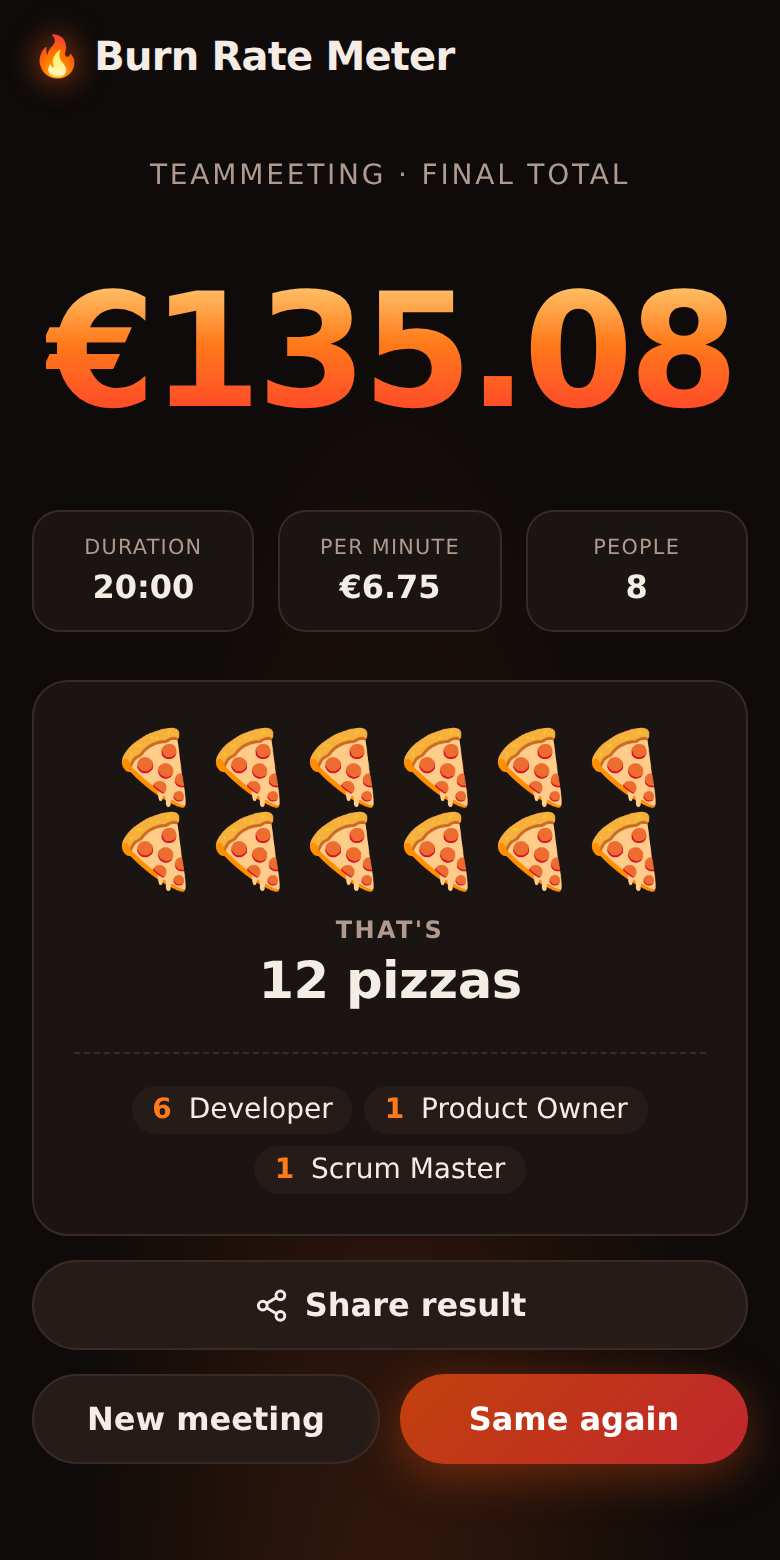
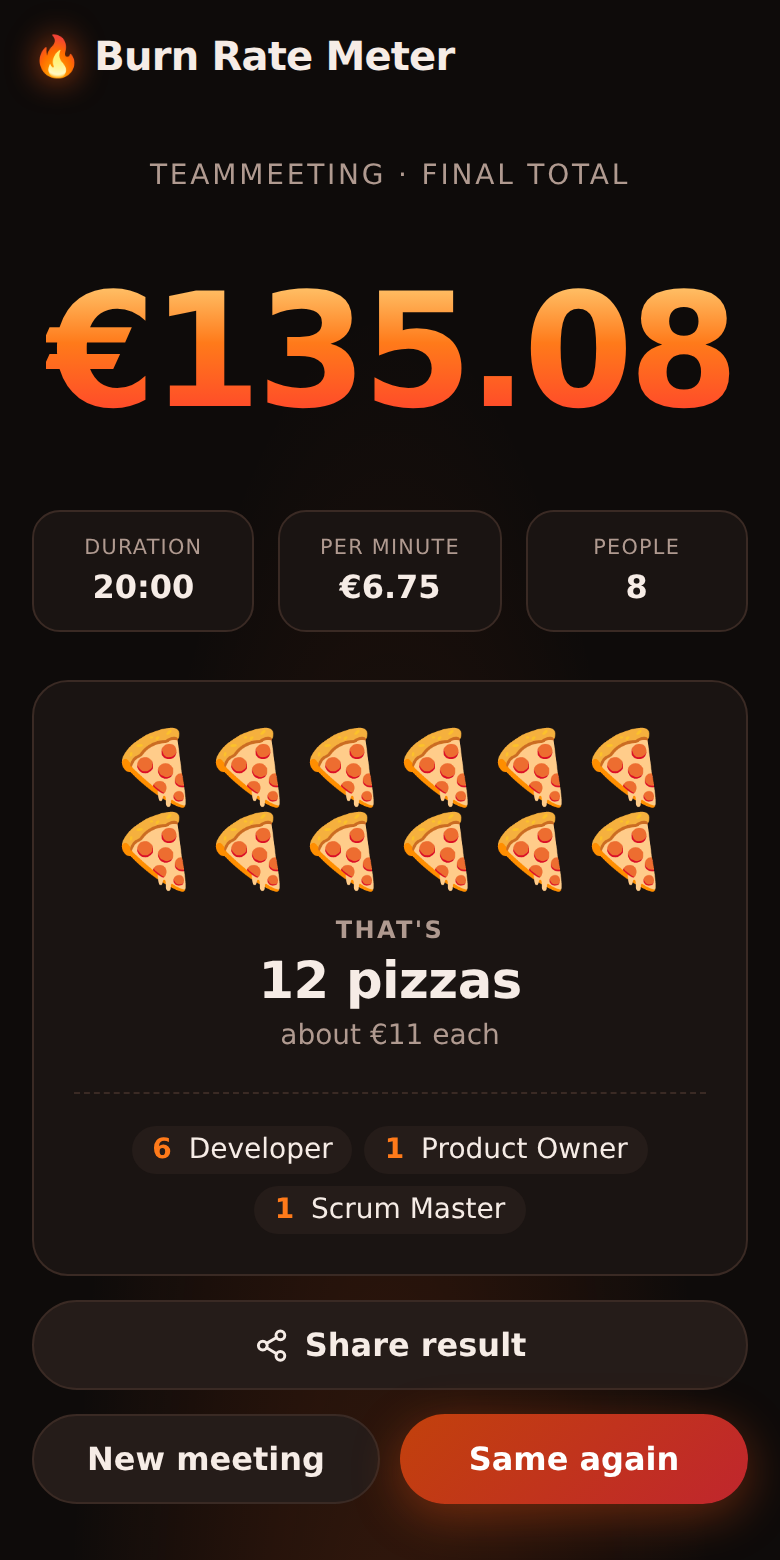
Add comparisons and show their prices (#16)

diff --git a/src/lib/cost.ts b/src/lib/cost.ts
@@ -68,34 +68,54 @@ export function formatDuration(elapsedMs: number): string {
 }
 
 export type ComparisonKey =
-  | 'usedCar'
-  | 'holiday'
-  | 'laptop'
-  | 'bike'
-  | 'headphones'
-  | 'pizza'
-  | 'doner'
   | 'coffee'
+  | 'doner'
+  | 'pizza'
+  | 'cinema'
+  | 'book'
+  | 'concert'
+  | 'sneakers'
+  | 'headphones'
+  | 'bike'
+  | 'smartphone'
+  | 'laptop'
+  | 'holiday'
+  | 'usedCar'
 
 type Comparison = { key: ComparisonKey; emoji: string; price: number }
 
-// Sorted from most to least expensive; the first one we can afford at least once wins.
+// Rough German prices (2026), from cheap to expensive.
 // The names live in the i18n dictionaries under `comparisons`.
 const COMPARISONS: Comparison[] = [
-  { key: 'usedCar', emoji: '🚗', price: 8000 },
-  { key: 'holiday', emoji: '🏝', price: 1500 },
-  { key: 'laptop', emoji: '💻', price: 1200 },
-  { key: 'bike', emoji: '🚲', price: 600 },
-  { key: 'headphones', emoji: '🎧', price: 250 },
-  { key: 'pizza', emoji: '🍕', price: 11 },
-  { key: 'doner', emoji: '🥙', price: 7.5 },
   { key: 'coffee', emoji: '☕', price: 3.5 },
+  { key: 'doner', emoji: '🥙', price: 7.5 },
+  { key: 'pizza', emoji: '🍕', price: 11 },
+  { key: 'cinema', emoji: '🎬', price: 14 },
+  { key: 'book', emoji: '📚', price: 22 },
+  { key: 'concert', emoji: '🎟', price: 75 },
+  { key: 'sneakers', emoji: '👟', price: 130 },
+  { key: 'headphones', emoji: '🎧', price: 250 },
+  { key: 'bike', emoji: '🚲', price: 600 },
+  { key: 'smartphone', emoji: '📱', price: 900 },
+  { key: 'laptop', emoji: '💻', price: 1200 },
+  { key: 'holiday', emoji: '🏝', price: 1500 },
+  { key: 'usedCar', emoji: '🚗', price: 8000 },
 ]
 
-export type ComparisonResult = { key: ComparisonKey; emoji: string; count: number }
+/** The result shows up to this many emojis, so comparisons aim for at most this count. */
+export const MAX_COMPARISON_COUNT = 12
 
+export type ComparisonResult = { key: ComparisonKey; emoji: string; count: number; price: number }
+
+/**
+ * What the money could have bought: the cheapest thing that fits at most 12 times
+ * (so 30 € are "8 coffees", 500 € are "6 concert tickets"). Beyond that, the most
+ * expensive thing. Below the price of a coffee: nothing.
+ */
 export function compareCost(amount: number): ComparisonResult | null {
-  const match = COMPARISONS.find((c) => amount >= c.price)
-  if (!match) return null
-  return { key: match.key, emoji: match.emoji, count: Math.floor(amount / match.price) }
+  const affordable = COMPARISONS.filter((c) => amount >= c.price)
+  if (affordable.length === 0) return null
+  const match =
+    affordable.find((c) => Math.floor(amount / c.price) <= MAX_COMPARISON_COUNT) ?? affordable[affordable.length - 1]
+  return { key: match.key, emoji: match.emoji, count: Math.floor(amount / match.price), price: match.price }
 }

diff --git a/src/components/Summary.tsx b/src/components/Summary.tsx
@@ -1,15 +1,12 @@
 import { motion, useReducedMotion } from 'motion/react'
 import { useI18n } from '../i18n/useI18n'
-import { compareCost } from '../lib/cost'
+import { MAX_COMPARISON_COUNT, compareCost } from '../lib/cost'
 import { countOf, type Attendance, type Role } from '../lib/settings'
 import { cx } from '../lib/cx'
 import { AttendeeChip } from './AttendeeList'
 import { Button } from './Button'
 import { ShareButton } from './ShareButton'
 import styles from './Summary.module.css'
-
-// Up to this many, the comparison shows one emoji per item ("🍕🍕🍕").
-const MAX_EMOJIS = 12
 
 type SummaryProps = {
   name: string | null
@@ -24,12 +21,12 @@ type SummaryProps = {
 
 /** End-of-meeting card: what the money could have bought, who was there, what next. */
 export function Summary({ name, cost, elapsedMs, people, roles, attendance, onNew, onRestart }: SummaryProps) {
-  const { t } = useI18n()
+  const { t, formatEUR } = useI18n()
   const reduceMotion = useReducedMotion()
   const comparison = compareCost(cost)
   const present = roles.filter((role) => countOf(attendance, role.id) > 0)
   const emoji = comparison?.emoji ?? '☕'
-  const emojiCount = comparison && comparison.count <= MAX_EMOJIS ? comparison.count : 1
+  const emojiCount = comparison && comparison.count <= MAX_COMPARISON_COUNT ? comparison.count : 1
 
   return (
     <div className={styles.summary} data-testid="summary">
@@ -52,6 +49,9 @@ export function Summary({ name, cost, elapsedMs, people, roles, attendance, onNe
             <p className={styles.kicker}>{t.meter.comparisonPrefix}</p>
             <p className={styles.headline}>
               {comparison.count} {t.comparisons[comparison.key][comparison.count === 1 ? 0 : 1]}
+            </p>
+            <p className={styles.priceNote}>
+              {t.meter.pricePer(formatEUR(comparison.price, { rounded: Number.isInteger(comparison.price) }))}
             </p>
           </>
         ) : (

diff --git a/src/i18n/de.ts b/src/i18n/de.ts
@@ -43,6 +43,8 @@ const de = {
     resume: 'Weiter',
     end: 'Beenden',
     comparisonPrefix: 'Das sind',
+    // Under the comparison, so everyone knows what we assumed
+    pricePer: (price: string) => `je ca. ${price}`,
     noComparison: 'Nicht mal ein Kaffee',
     noComparisonSub: 'Gut gemacht!',
     newMeeting: 'Neues Meeting',
@@ -60,14 +62,19 @@ const de = {
     failed: 'Teilen hat leider nicht geklappt.',
   },
   comparisons: {
-    usedCar: ['Gebrauchtwagen', 'Gebrauchtwagen'],
-    holiday: ['Pauschalurlaub', 'Pauschalurlaube'],
-    laptop: ['Laptop', 'Laptops'],
-    bike: ['Fahrrad', 'Fahrräder'],
-    headphones: ['Kopfhörer', 'Kopfhörer'],
-    pizza: ['Pizza', 'Pizzen'],
-    doner: ['Döner', 'Döner'],
     coffee: ['Kaffee', 'Kaffees'],
+    doner: ['Döner', 'Döner'],
+    pizza: ['Pizza', 'Pizzen'],
+    cinema: ['Kinoticket', 'Kinotickets'],
+    book: ['Buch', 'Bücher'],
+    concert: ['Konzertticket', 'Konzerttickets'],
+    sneakers: ['Paar Sneaker', 'Paar Sneaker'],
+    headphones: ['Kopfhörer', 'Kopfhörer'],
+    bike: ['Fahrrad', 'Fahrräder'],
+    smartphone: ['Smartphone', 'Smartphones'],
+    laptop: ['Laptop', 'Laptops'],
+    holiday: ['Pauschalurlaub', 'Pauschalurlaube'],
+    usedCar: ['Gebrauchtwagen', 'Gebrauchtwagen'],
   } satisfies Record<ComparisonKey, [singular: string, plural: string]>,
   settings: {
     general: 'Allgemein',

diff --git a/src/i18n/en.ts b/src/i18n/en.ts
@@ -40,6 +40,7 @@ const en: Messages = {
     resume: 'Resume',
     end: 'End',
     comparisonPrefix: "That's",
+    pricePer: (price) => `about ${price} each`,
     noComparison: 'Not even a coffee',
     noComparisonSub: 'Well done!',
     newMeeting: 'New meeting',
@@ -56,14 +57,19 @@ const en: Messages = {
     failed: 'Sharing didn’t work, sorry.',
   },
   comparisons: {
-    usedCar: ['used car', 'used cars'],
-    holiday: ['package holiday', 'package holidays'],
-    laptop: ['laptop', 'laptops'],
-    bike: ['bike', 'bikes'],
-    headphones: ['pair of headphones', 'pairs of headphones'],
-    pizza: ['pizza', 'pizzas'],
-    doner: ['döner kebab', 'döner kebabs'],
     coffee: ['coffee', 'coffees'],
+    doner: ['döner kebab', 'döner kebabs'],
+    pizza: ['pizza', 'pizzas'],
+    cinema: ['cinema ticket', 'cinema tickets'],
+    book: ['book', 'books'],
+    concert: ['concert ticket', 'concert tickets'],
+    sneakers: ['pair of sneakers', 'pairs of sneakers'],
+    headphones: ['pair of headphones', 'pairs of headphones'],
+    bike: ['bike', 'bikes'],
+    smartphone: ['smartphone', 'smartphones'],
+    laptop: ['laptop', 'laptops'],
+    holiday: ['package holiday', 'package holidays'],
+    usedCar: ['used car', 'used cars'],
   },
   settings: {
     general: 'General',

diff --git a/src/lib/cost.test.ts b/src/lib/cost.test.ts
@@ -62,9 +62,16 @@ describe('cost', () => {
     expect(formatDuration(3_725_000)).toBe('1:02:05')
   })
 
-  it('picks the most expensive affordable comparison', () => {
+  it('picks the cheapest thing that fits at most 12 times', () => {
     expect(compareCost(2)).toBeNull()
-    expect(compareCost(23)).toEqual({ key: 'pizza', emoji: '🍕', count: 2 })
-    expect(compareCost(1300)).toEqual({ key: 'laptop', emoji: '💻', count: 1 })
+    expect(compareCost(3.5)).toEqual({ key: 'coffee', emoji: '☕', count: 1, price: 3.5 })
+    expect(compareCost(30)).toEqual({ key: 'coffee', emoji: '☕', count: 8, price: 3.5 })
+    expect(compareCost(135)).toEqual({ key: 'pizza', emoji: '🍕', count: 12, price: 11 })
+    expect(compareCost(500)).toEqual({ key: 'concert', emoji: '🎟', count: 6, price: 75 })
+    expect(compareCost(1300)).toEqual({ key: 'sneakers', emoji: '👟', count: 10, price: 130 })
+  })
+
+  it('falls back to the most expensive thing for huge amounts', () => {
+    expect(compareCost(200_000)).toEqual({ key: 'usedCar', emoji: '🚗', count: 25, price: 8000 })
   })
 })

diff --git a/src/lib/shareImage.ts b/src/lib/shareImage.ts
@@ -1,10 +1,9 @@
 import type { Messages } from '../i18n/de'
-import { compareCost, formatDuration } from './cost'
+import { MAX_COMPARISON_COUNT, compareCost, formatDuration } from './cost'
 import { comparisonLabel, type MeetingResult } from './share'
 
 // Square, so it looks good in chats and on social media
 const SIZE = 1080
-const MAX_EMOJIS = 12
 const EMOJIS_PER_ROW = 6
 
 /** The design tokens of the current color scheme, read from the page. */
@@ -104,7 +103,7 @@ export function renderShareImage(t: Messages, formatEUR: (amount: number) => str
 
   // What the money could have bought
   const comparison = comparisonLabel(t, result.cost)
-  const emojiCount = comparison.count <= MAX_EMOJIS ? comparison.count : 1
+  const emojiCount = comparison.count <= MAX_COMPARISON_COUNT ? comparison.count : 1
   let y: number
   if (emojiCount === 1) {
     ctx.font = `130px ${family}`

diff --git a/e2e/a11y.spec.ts b/e2e/a11y.spec.ts
@@ -5,7 +5,8 @@ import { expect, test, type Page } from '@playwright/test'
 
 async function expectNoViolations(page: Page) {
   // Scan the settled screen: mid-fade elements would report false contrast issues.
-  await page.waitForTimeout(700)
+  await page.waitForFunction(() => document.getAnimations().length === 0)
+  await page.waitForTimeout(300)
   const results = await new AxeBuilder({ page }).withTags(['wcag2a', 'wcag2aa', 'wcag21a', 'wcag21aa']).analyze()
   const summary = results.violations.map((v) => ({
     rule: v.id,

diff --git a/e2e/meeting.spec.ts b/e2e/meeting.spec.ts
@@ -17,7 +17,7 @@ test('runs a meeting: counts, pauses, changes headcount and ends', async ({ page
     delete (Element.prototype as Partial<Element>).animate
   })
   await page.goto('/')
-  await page.clock.pauseAt(new Date('2026-01-01T09:00:01'))
+  await page.clock.pauseAt(new Date('2026-01-01T09:01:00'))
 
   // Teammeeting preset: 6 × Developer (50) + 1 × Product Owner (55) + 1 × Scrum Master (50) = 405 €/h
   await page.getByRole('button', { name: /Teammeeting/ }).click()

diff --git a/e2e/settings.spec.ts b/e2e/settings.spec.ts
@@ -199,7 +199,7 @@ test('the bill value sets how often bills fall', async ({ page }) => {
     delete (Element.prototype as Partial<Element>).animate
   })
   await page.goto('/')
-  await page.clock.pauseAt(new Date('2026-01-01T09:00:01'))
+  await page.clock.pauseAt(new Date('2026-01-01T09:01:00'))
 
   // The clock is paused, so every view switch needs runFor() to animate.
   await page.getByRole('button', { name: /Einstellungen/ }).click()

diff --git a/e2e/share.spec.ts b/e2e/share.spec.ts
@@ -39,7 +39,7 @@ async function finishMeeting(page: Page) {
     delete (Element.prototype as Partial<Element>).animate
   })
   await page.goto('/')
-  await page.clock.pauseAt(new Date('2026-01-01T09:00:01'))
+  await page.clock.pauseAt(new Date('2026-01-01T09:01:00'))
   await page.getByRole('button', { name: /Teammeeting/ }).click()
   await page.getByRole('button', { name: 'Meeting starten' }).click()
   await page.clock.runFor(1000)

diff --git a/e2e/screenshots.spec.ts b/e2e/screenshots.spec.ts
@@ -31,7 +31,7 @@ async function setUp(page: Page, settings: object = {}) {
     localStorage.setItem('burn-rate-meter:settings', JSON.stringify({ version: 3, settings: stored }))
   }, settings)
   await page.goto('/')
-  await page.clock.pauseAt(new Date('2026-01-01T09:00:01'))
+  await page.clock.pauseAt(new Date('2026-01-01T09:01:00'))
 }
 
 async function startMeeting(page: Page, preset: string) {

diff --git a/src/lib/settings.ts b/src/lib/settings.ts
@@ -42,7 +42,7 @@ export const LIMITS = {
 export const DEFAULT_SETTINGS: Settings = {
   theme: 'system',
   language: 'auto',
-  billValue: 10,
+  billValue: 5,
   // Rates are employer cost per hour, based on average German gross salaries (2026):
   // gross × 1.23 (employer social security) ÷ 1,650 productive hours, rounded to 5 €.
   roles: [
